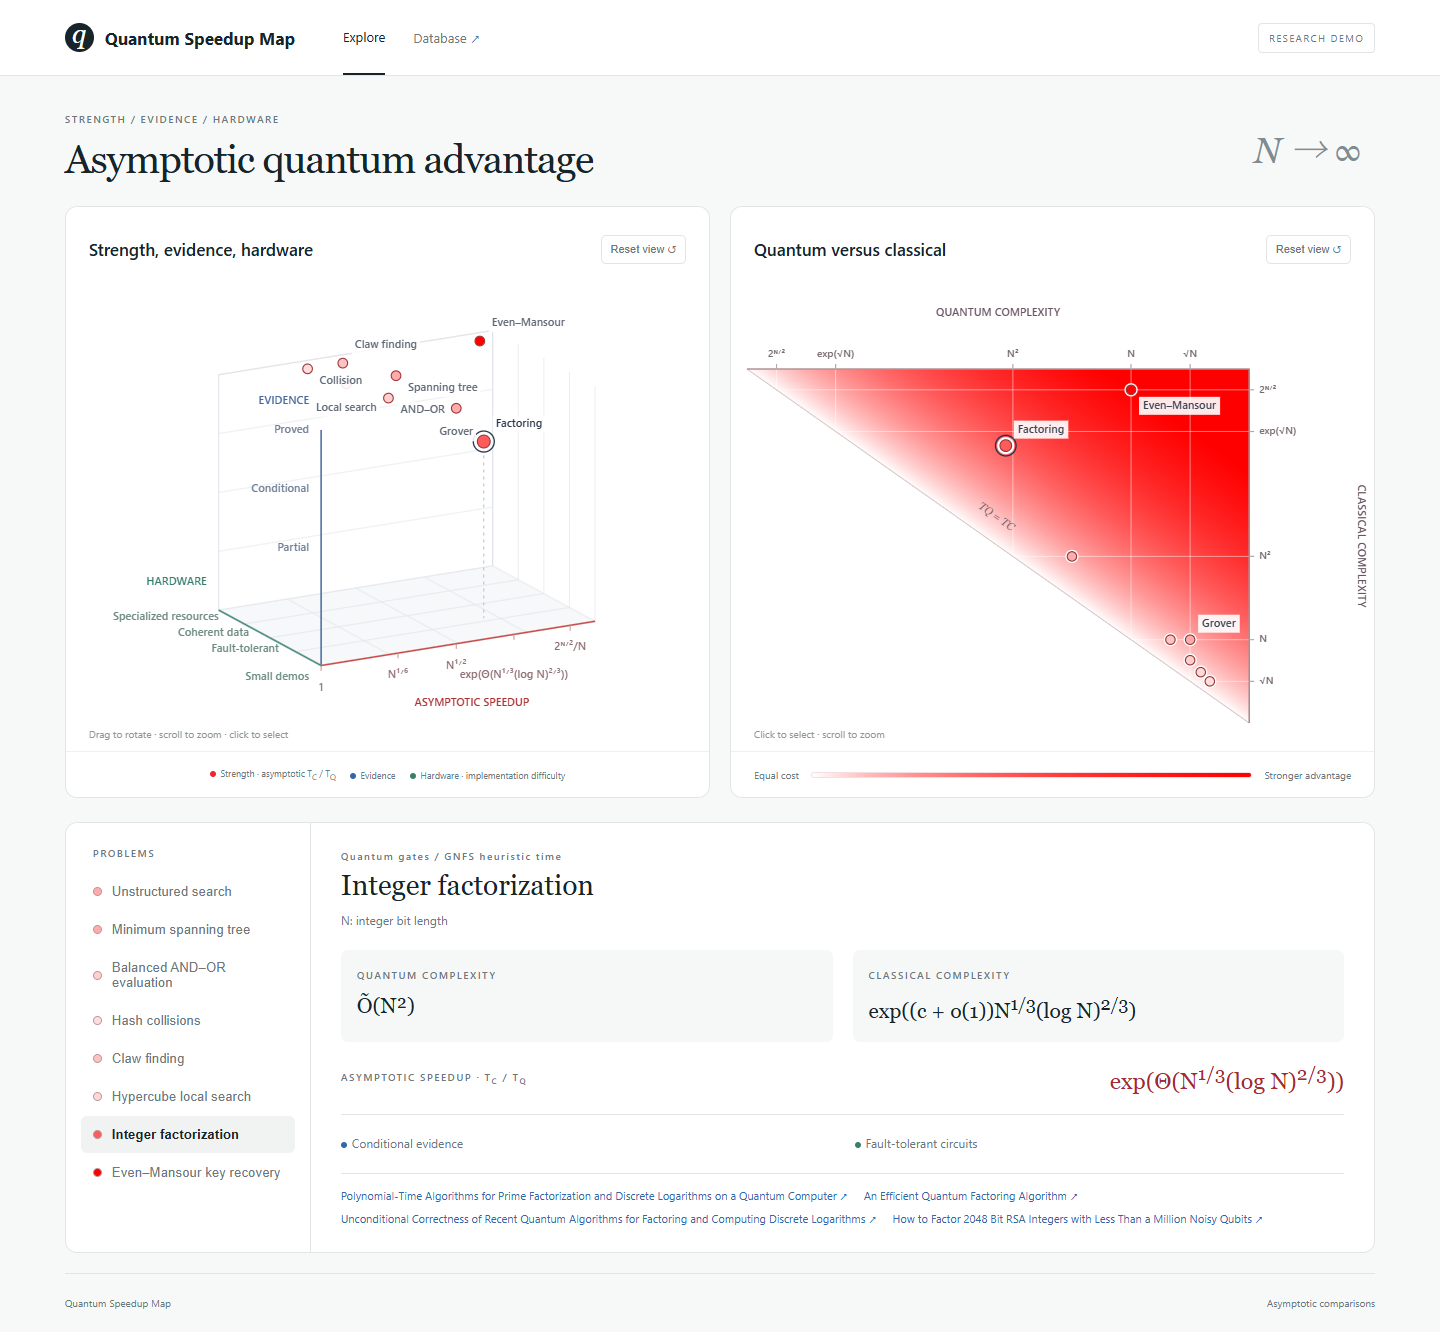
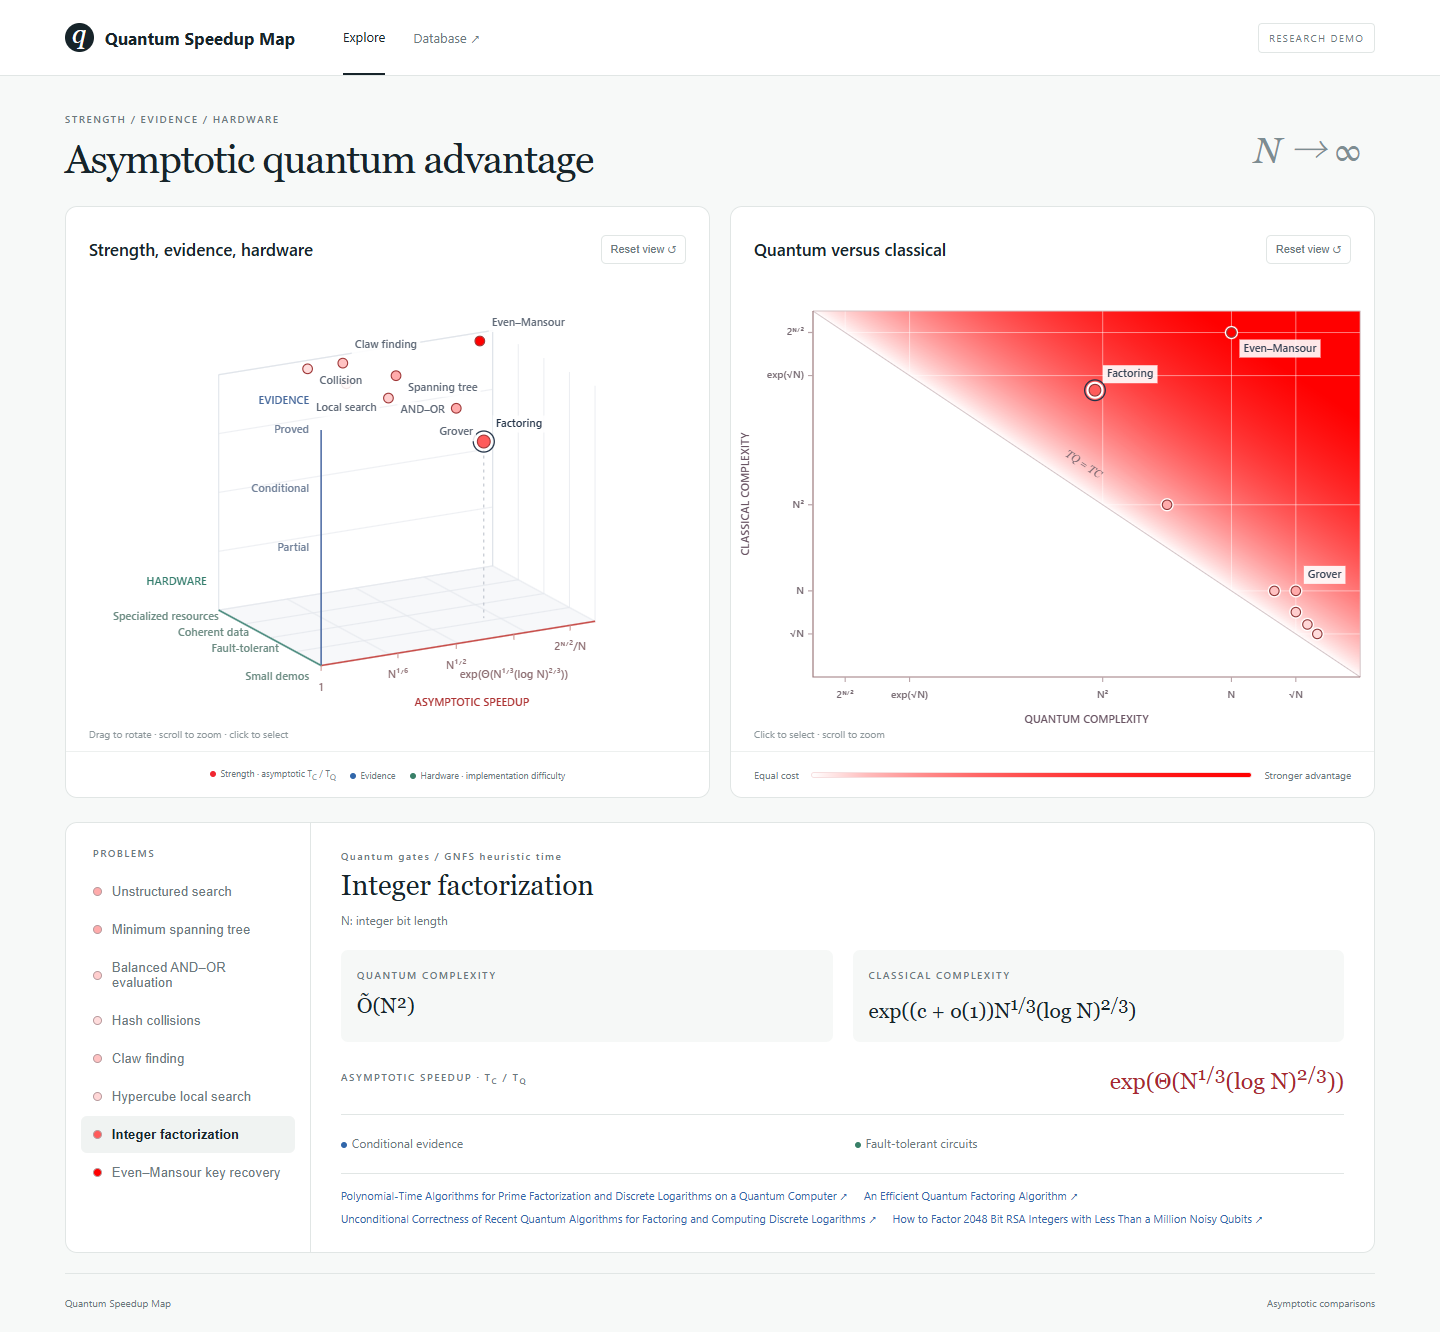
Restore left and bottom axes in the complexity chart

diff --git a/visualization/demo/cost2d.js b/visualization/demo/cost2d.js
@@ -118,7 +118,8 @@
       if (!width || !height) return;
       c.clearRect(0, 0, width, height);
       const compact = width < 480, maximum = this.viewMax || this.options.costMax || 4.25;
-      const L = 16, T = 78, W = Math.max(120, width - L - (compact ? 92 : 125)), H = Math.max(120, height - T - 28);
+      const L = compact ? 74 : 82, T = 20;
+      const W = Math.max(120, width - L - 14), H = Math.max(120, height - T - 74);
       const mapX = value => L + W * (1 - value / maximum);
       const mapY = value => T + H * (1 - value / maximum);
       const triangle = () => {
@@ -166,26 +167,26 @@
       c.restore();
       c.restore();
       triangle(); c.strokeStyle = '#d4c4c7'; c.lineWidth = 1; c.stroke();
-      c.beginPath(); c.moveTo(L, T); c.lineTo(L + W, T); c.lineTo(L + W, T + H); c.strokeStyle = '#9d7a7d'; c.lineWidth = 1.2; c.stroke();
+      c.beginPath(); c.moveTo(L, T); c.lineTo(L, T + H); c.lineTo(L + W, T + H); c.strokeStyle = '#9d7a7d'; c.lineWidth = 1.2; c.stroke();
       c.font = `500 ${compact ? 9 : 10}px -apple-system,BlinkMacSystemFont,"Segoe UI",sans-serif`;
-      const topLabels = [];
+      const bottomLabels = [];
       ticks.forEach((t, i) => {
         if (t.value < 0 || t.value > maximum) return;
         const x = mapX(t.value), y = mapY(t.value), label = String(t.label || '');
-        c.beginPath(); c.moveTo(x, T); c.lineTo(x, T - 5); c.moveTo(L + W, y); c.lineTo(L + W + 5, y);
+        c.beginPath(); c.moveTo(x, T + H); c.lineTo(x, T + H + 5); c.moveTo(L, y); c.lineTo(L - 5, y);
         c.strokeStyle = '#bba6aa'; c.stroke();
         const tw = c.measureText(label).width;
         const labelX = Math.max(tw / 2 + 3, Math.min(width - tw / 2 - 3, x));
-        let labelY = T - 15;
-        if (topLabels.some(q => Math.abs(labelX - q.x) < (tw + q.w) / 2 + 5)) labelY -= 16;
-        topLabels.push({ x: labelX, w: tw });
+        let labelY = T + H + 18;
+        if (bottomLabels.some(q => Math.abs(labelX - q.x) < (tw + q.w) / 2 + 5)) labelY += 14;
+        bottomLabels.push({ x: labelX, w: tw });
         c.fillStyle = '#74676f'; c.textAlign = 'center'; c.textBaseline = 'middle'; c.fillText(label, labelX, labelY);
-        c.textAlign = 'left'; c.fillText(label, L + W + 10, y);
+        c.textAlign = 'right'; c.fillText(label, L - 9, y);
       });
       c.font = '600 11px -apple-system,BlinkMacSystemFont,"Segoe UI",sans-serif';
       c.fillStyle = '#695463'; c.textAlign = 'center'; c.textBaseline = 'middle';
-      c.fillText('QUANTUM COMPLEXITY', L + W / 2, 22);
-      c.save(); c.translate(width - 13, T + H / 2); c.rotate(Math.PI / 2); c.fillText('CLASSICAL COMPLEXITY', 0, 0); c.restore();
+      c.fillText('QUANTUM COMPLEXITY', L + W / 2, height - 31);
+      c.save(); c.translate(15, T + H / 2); c.rotate(-Math.PI / 2); c.fillText('CLASSICAL COMPLEXITY', 0, 0); c.restore();
     }
   }
   window.CostScene = CostScene;

diff --git a/visualization/quantum-speedup-demo.html b/visualization/quantum-speedup-demo.html
@@ -627,7 +627,8 @@
       if (!width || !height) return;
       c.clearRect(0, 0, width, height);
       const compact = width < 480, maximum = this.viewMax || this.options.costMax || 4.25;
-      const L = 16, T = 78, W = Math.max(120, width - L - (compact ? 92 : 125)), H = Math.max(120, height - T - 28);
+      const L = compact ? 74 : 82, T = 20;
+      const W = Math.max(120, width - L - 14), H = Math.max(120, height - T - 74);
       const mapX = value => L + W * (1 - value / maximum);
       const mapY = value => T + H * (1 - value / maximum);
       const triangle = () => {
@@ -675,26 +676,26 @@
       c.restore();
       c.restore();
       triangle(); c.strokeStyle = '#d4c4c7'; c.lineWidth = 1; c.stroke();
-      c.beginPath(); c.moveTo(L, T); c.lineTo(L + W, T); c.lineTo(L + W, T + H); c.strokeStyle = '#9d7a7d'; c.lineWidth = 1.2; c.stroke();
+      c.beginPath(); c.moveTo(L, T); c.lineTo(L, T + H); c.lineTo(L + W, T + H); c.strokeStyle = '#9d7a7d'; c.lineWidth = 1.2; c.stroke();
       c.font = `500 ${compact ? 9 : 10}px -apple-system,BlinkMacSystemFont,"Segoe UI",sans-serif`;
-      const topLabels = [];
+      const bottomLabels = [];
       ticks.forEach((t, i) => {
         if (t.value < 0 || t.value > maximum) return;
         const x = mapX(t.value), y = mapY(t.value), label = String(t.label || '');
-        c.beginPath(); c.moveTo(x, T); c.lineTo(x, T - 5); c.moveTo(L + W, y); c.lineTo(L + W + 5, y);
+        c.beginPath(); c.moveTo(x, T + H); c.lineTo(x, T + H + 5); c.moveTo(L, y); c.lineTo(L - 5, y);
         c.strokeStyle = '#bba6aa'; c.stroke();
         const tw = c.measureText(label).width;
         const labelX = Math.max(tw / 2 + 3, Math.min(width - tw / 2 - 3, x));
-        let labelY = T - 15;
-        if (topLabels.some(q => Math.abs(labelX - q.x) < (tw + q.w) / 2 + 5)) labelY -= 16;
-        topLabels.push({ x: labelX, w: tw });
+        let labelY = T + H + 18;
+        if (bottomLabels.some(q => Math.abs(labelX - q.x) < (tw + q.w) / 2 + 5)) labelY += 14;
+        bottomLabels.push({ x: labelX, w: tw });
         c.fillStyle = '#74676f'; c.textAlign = 'center'; c.textBaseline = 'middle'; c.fillText(label, labelX, labelY);
-        c.textAlign = 'left'; c.fillText(label, L + W + 10, y);
+        c.textAlign = 'right'; c.fillText(label, L - 9, y);
       });
       c.font = '600 11px -apple-system,BlinkMacSystemFont,"Segoe UI",sans-serif';
       c.fillStyle = '#695463'; c.textAlign = 'center'; c.textBaseline = 'middle';
-      c.fillText('QUANTUM COMPLEXITY', L + W / 2, 22);
-      c.save(); c.translate(width - 13, T + H / 2); c.rotate(Math.PI / 2); c.fillText('CLASSICAL COMPLEXITY', 0, 0); c.restore();
+      c.fillText('QUANTUM COMPLEXITY', L + W / 2, height - 31);
+      c.save(); c.translate(15, T + H / 2); c.rotate(-Math.PI / 2); c.fillText('CLASSICAL COMPLEXITY', 0, 0); c.restore();
     }
   }
   window.CostScene = CostScene;
